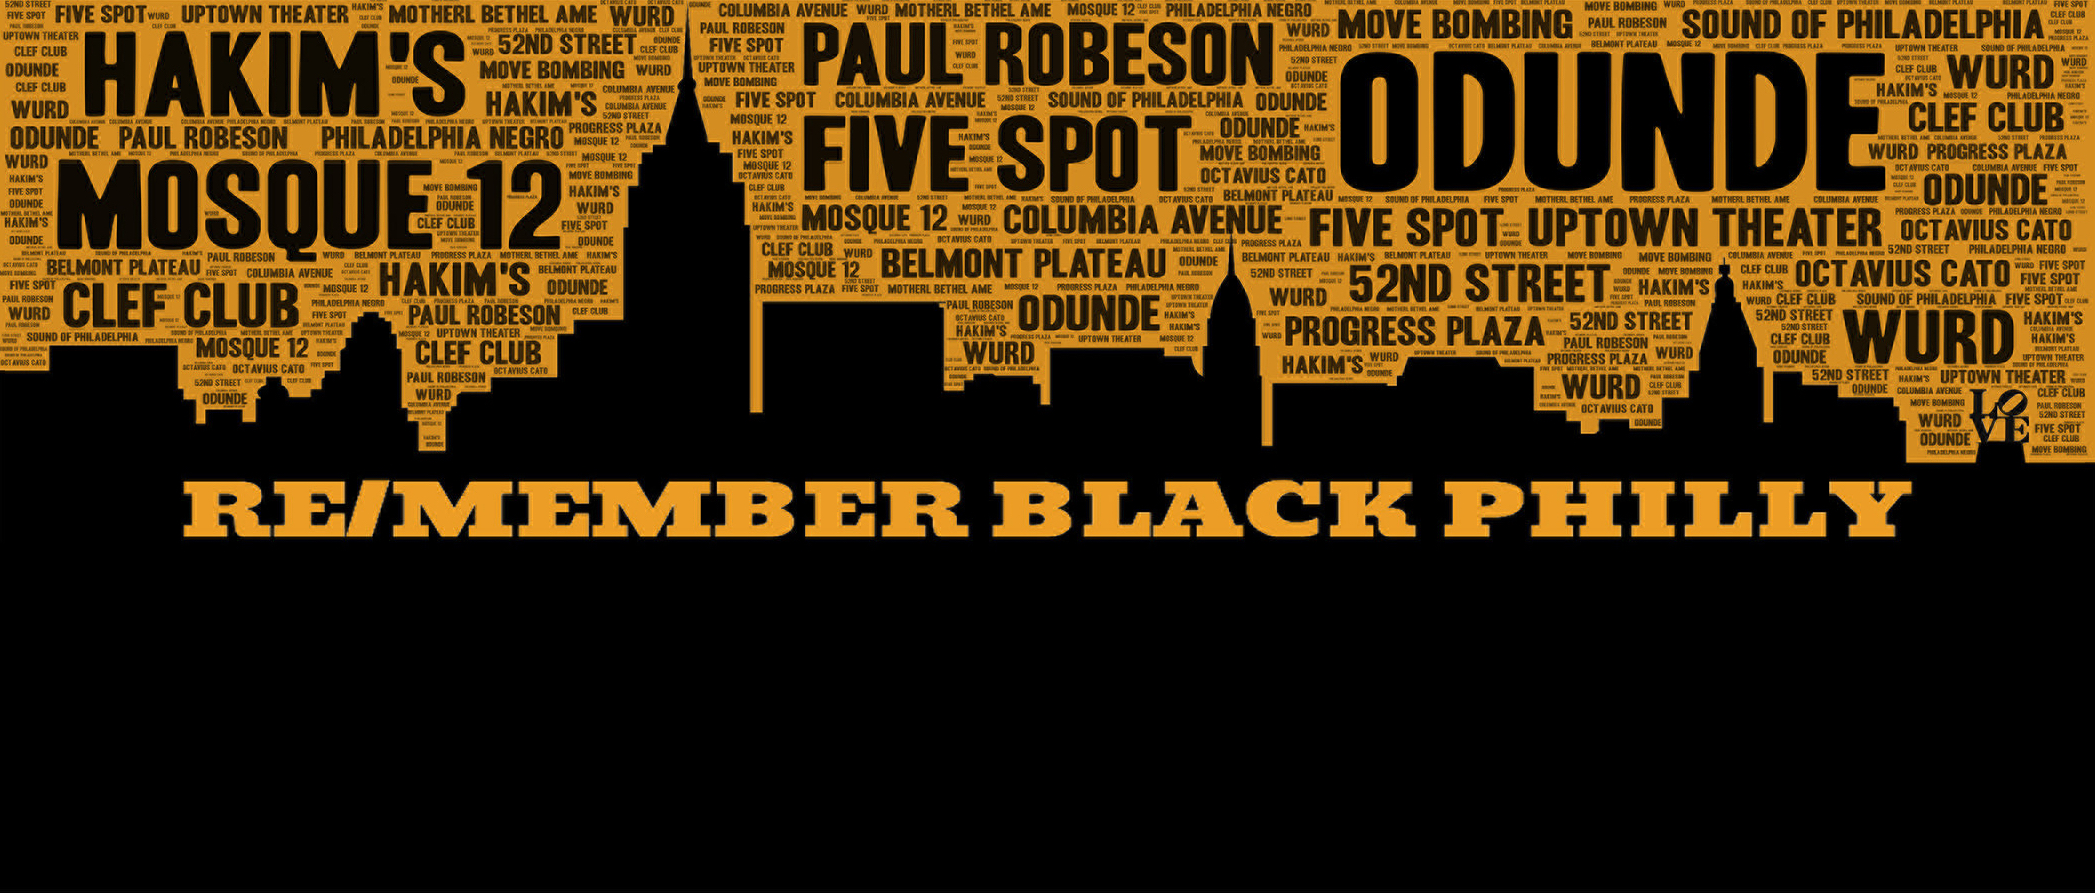
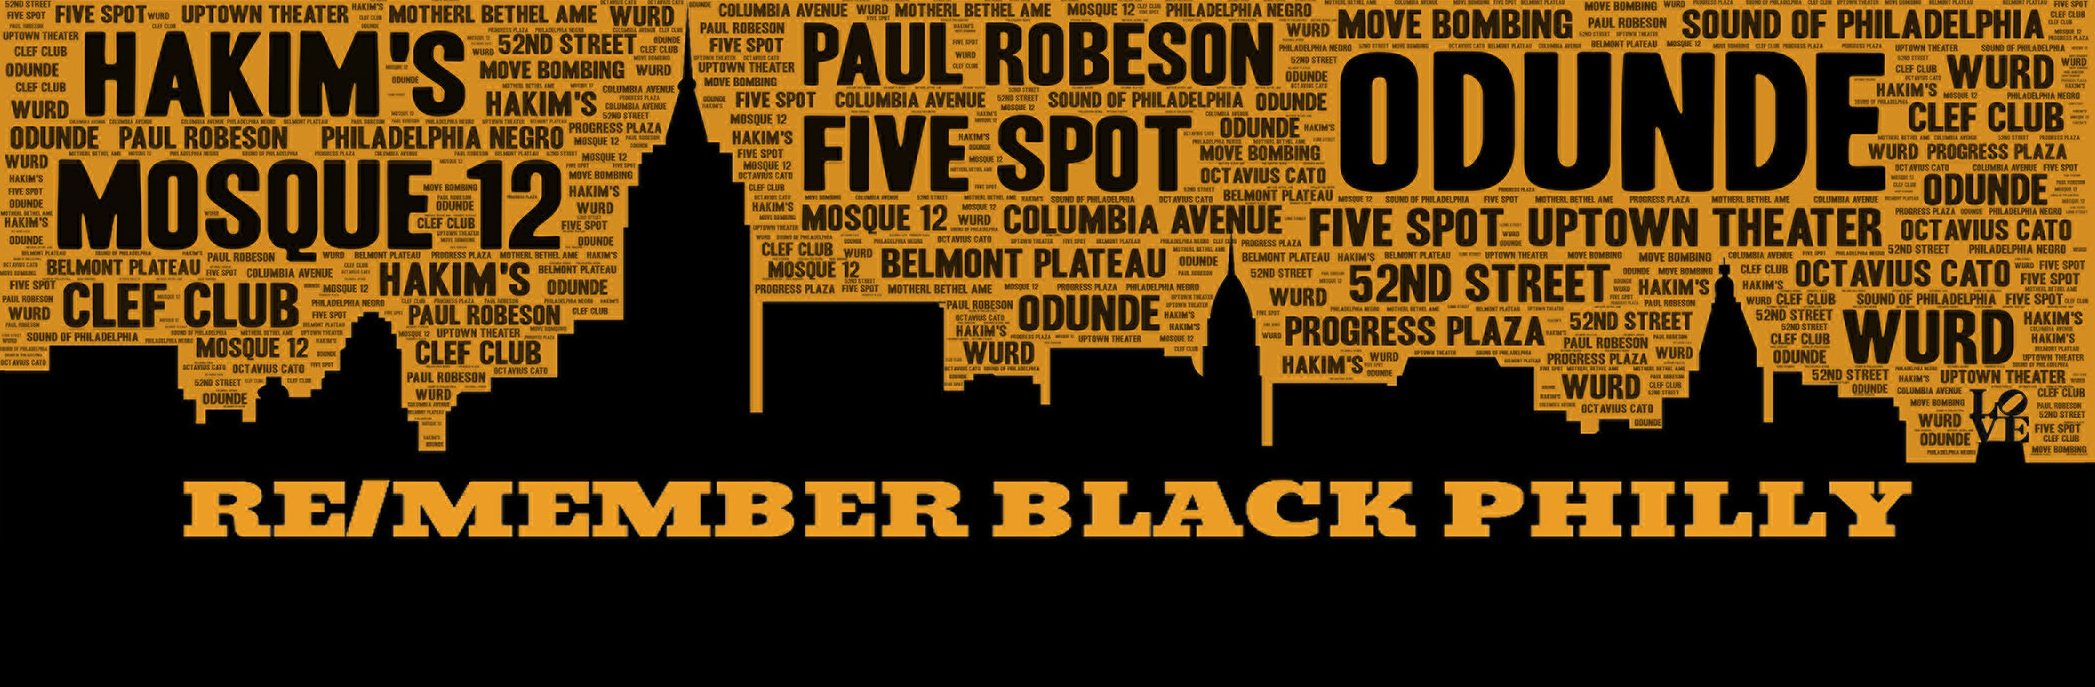
Masthead image test
Expanded the blackspace beneath the image

diff --git a/pages/pages-root-folder/index.md b/pages/pages-root-folder/index.md
@@ -6,7 +6,7 @@
 #
 layout: frontpage
 header:
-  image_fullwidth: header_banner_larger.jpg
+  image_fullwidth: header_banner.jpg
 image:
   title: odunde_2019_crop.jpg
   caption: Photo from the 2019 Odunde Festival.
